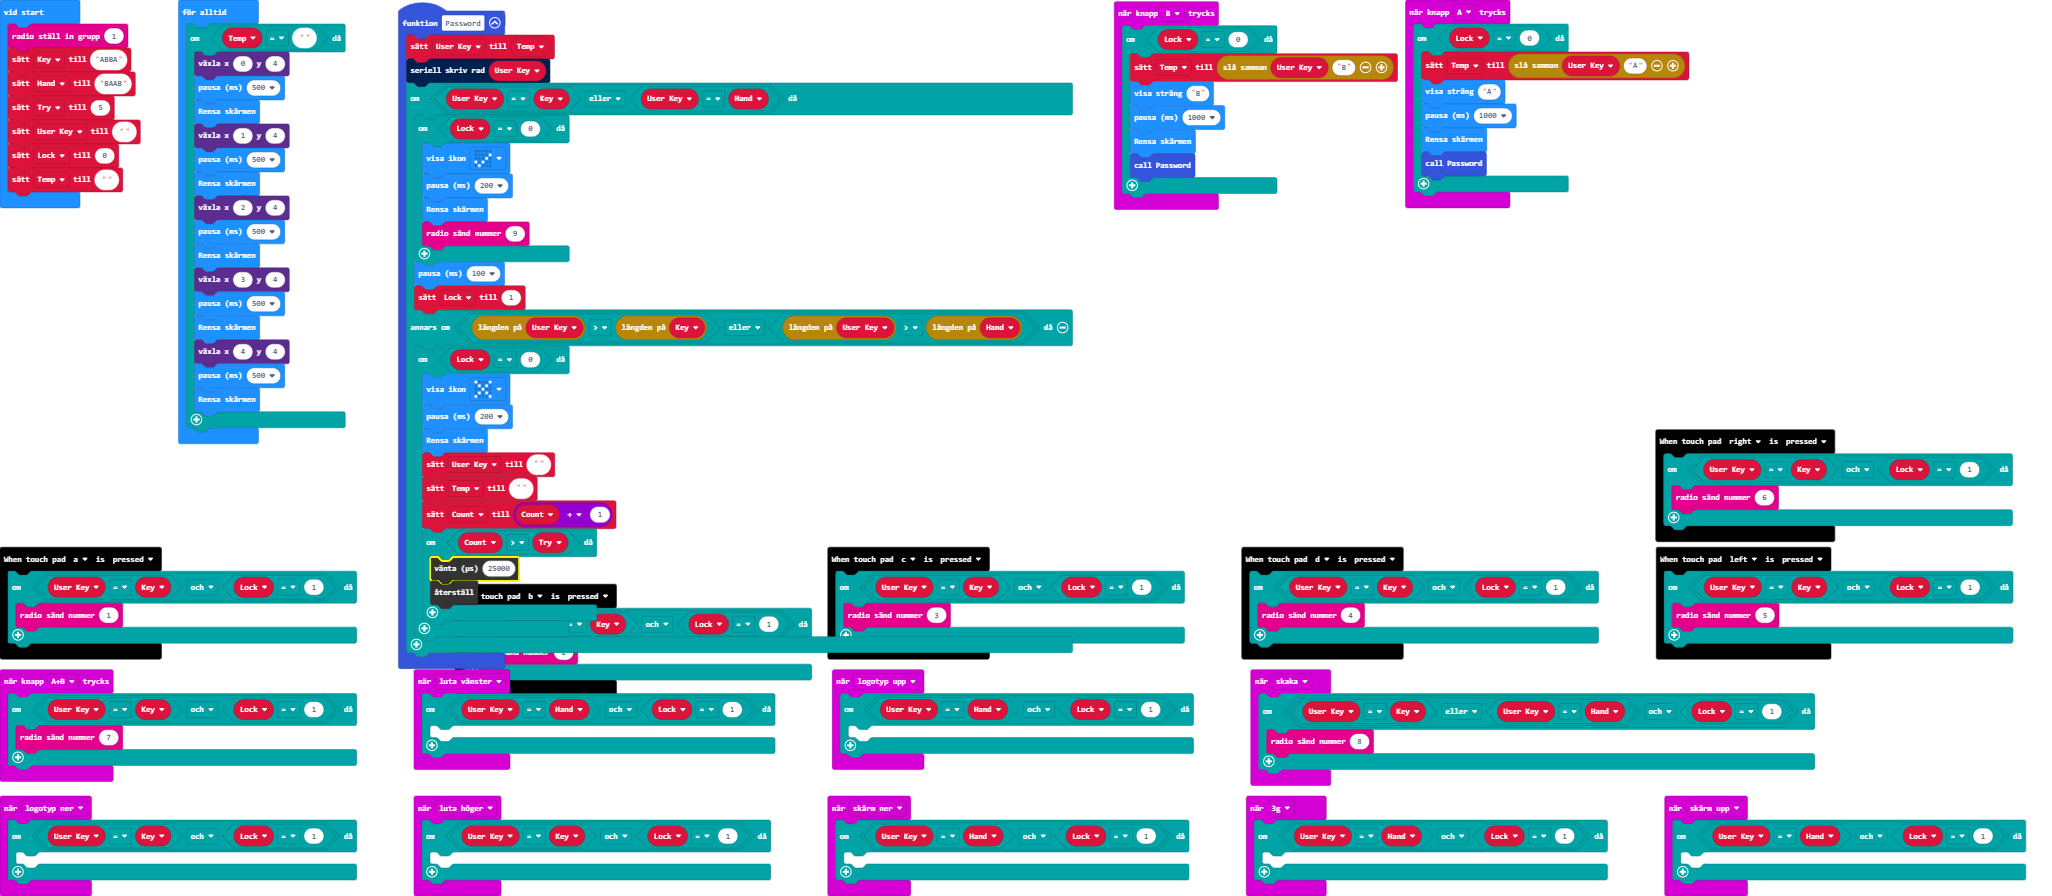
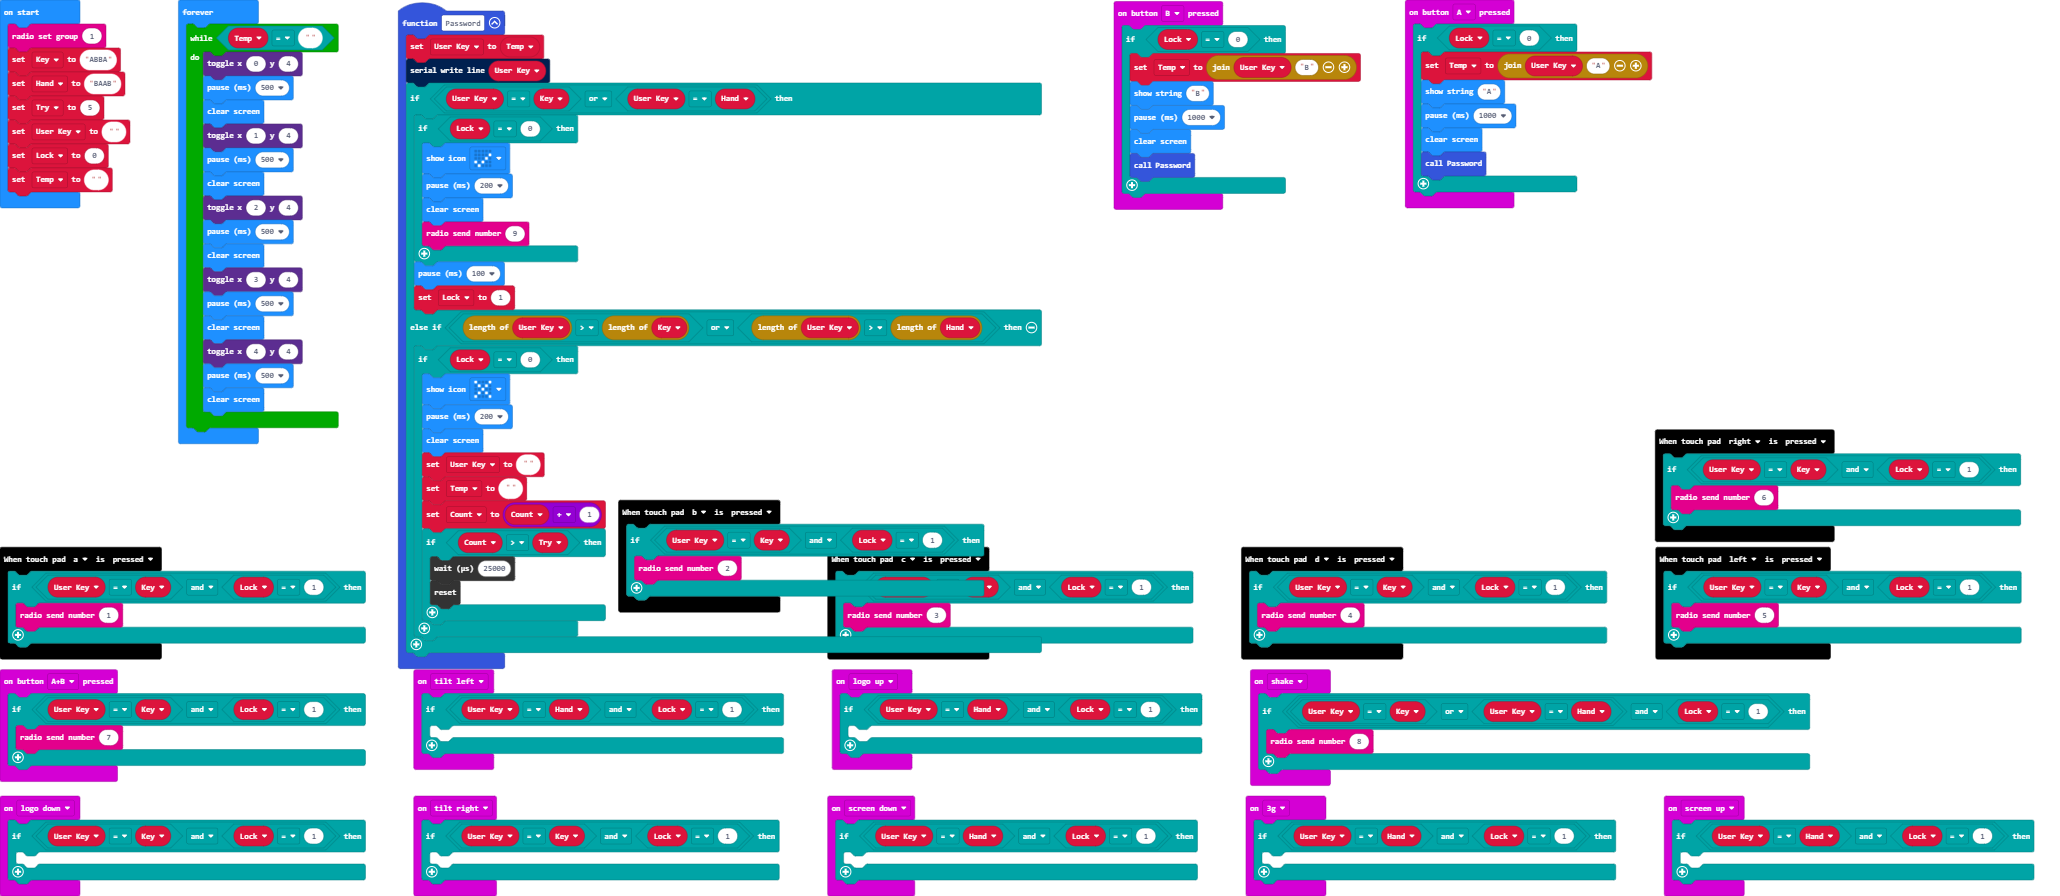
Update main.blocks, main.ts

diff --git a/main.ts b/main.ts
@@ -1,8 +1,3 @@
-input.onGesture(Gesture.TiltRight, function () {
-    if (User_Key == Key && Lock == 1) {
-    	
-    }
-})
 function Password () {
     User_Key = Temp
     serial.writeLine(User_Key)
@@ -35,21 +30,6 @@ touchbit.on(touchbit.TouchPad.b, touchbit.TouchEvent.pressed, function () {
         radio.sendNumber(2)
     }
 })
-input.onGesture(Gesture.TiltLeft, function () {
-    if (User_Key == Hand && Lock == 1) {
-    	
-    }
-})
-input.onGesture(Gesture.ScreenUp, function () {
-    if (User_Key == Hand && Lock == 1) {
-    	
-    }
-})
-input.onGesture(Gesture.LogoUp, function () {
-    if (User_Key == Hand && Lock == 1) {
-    	
-    }
-})
 input.onButtonPressed(Button.A, function () {
     if (Lock == 0) {
         Temp = "" + User_Key + "A"
@@ -59,14 +39,24 @@ input.onButtonPressed(Button.A, function () {
         Password()
     }
 })
-input.onGesture(Gesture.Shake, function () {
-    if ((User_Key == Key || User_Key == Hand) && Lock == 1) {
-        radio.sendNumber(8)
+input.onGesture(Gesture.LogoUp, function () {
+    if (User_Key == Hand && Lock == 1) {
+    	
     }
 })
 touchbit.on(touchbit.TouchPad.d, touchbit.TouchEvent.pressed, function () {
     if (User_Key == Key && Lock == 1) {
         radio.sendNumber(4)
+    }
+})
+input.onGesture(Gesture.TiltLeft, function () {
+    if (User_Key == Hand && Lock == 1) {
+    	
+    }
+})
+input.onGesture(Gesture.ScreenUp, function () {
+    if (User_Key == Hand && Lock == 1) {
+    	
     }
 })
 touchbit.on(touchbit.TouchPad.right, touchbit.TouchEvent.pressed, function () {
@@ -81,11 +71,6 @@ touchbit.on(touchbit.TouchPad.left, touchbit.TouchEvent.pressed, function () {
 })
 input.onGesture(Gesture.ScreenDown, function () {
     if (User_Key == Hand && Lock == 1) {
-    	
-    }
-})
-input.onGesture(Gesture.LogoDown, function () {
-    if (User_Key == Key && Lock == 1) {
     	
     }
 })
@@ -106,6 +91,21 @@ input.onButtonPressed(Button.B, function () {
         basic.pause(1000)
         basic.clearScreen()
         Password()
+    }
+})
+input.onGesture(Gesture.Shake, function () {
+    if ((User_Key == Key || User_Key == Hand) && Lock == 1) {
+        radio.sendNumber(8)
+    }
+})
+input.onGesture(Gesture.TiltRight, function () {
+    if (User_Key == Key && Lock == 1) {
+    	
+    }
+})
+input.onGesture(Gesture.LogoDown, function () {
+    if (User_Key == Key && Lock == 1) {
+    	
     }
 })
 touchbit.on(touchbit.TouchPad.a, touchbit.TouchEvent.pressed, function () {
@@ -133,7 +133,7 @@ User_Key = ""
 Lock = 0
 Temp = ""
 basic.forever(function () {
-    if (Temp == "") {
+    while (Temp == "") {
         led.toggle(0, 4)
         basic.pause(500)
         basic.clearScreen()
